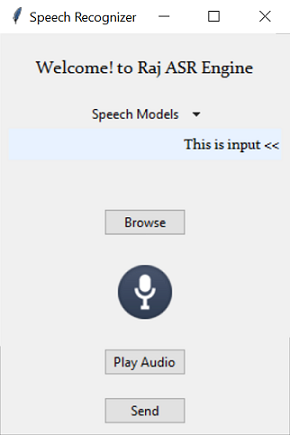
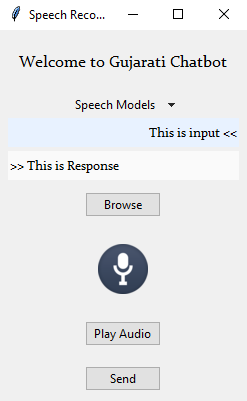
gui title changed, screenshot changed

diff --git a/gui.py b/gui.py
@@ -17,7 +17,7 @@ import _thread
 import speech_recognition as sr  # import Google ASR API - just for experiment
 
 LANGUAGE_CODE = "gu"
-REPLY_ME_BACK = False
+REPLY_ME_BACK = True
 TALK_BACK = False
 SHOW_OUTPUT_WITHOUT_LM_ALSO = False
 
@@ -32,7 +32,7 @@ if TALK_BACK:
 class App:
     def __init__(self, root):
         self.processing_flag = False
-        self.welcome = ttk.Label(root, text='Welcome! to Raj ASR Engine', font=("Constantia", 12), anchor=N,
+        self.welcome = ttk.Label(root, text='Welcome to Gujarati Chatbot!', font=("Constantia", 12), anchor=N,
                                  justify=CENTER,
                                  width=27)
         self.welcome.pack(pady=20)
